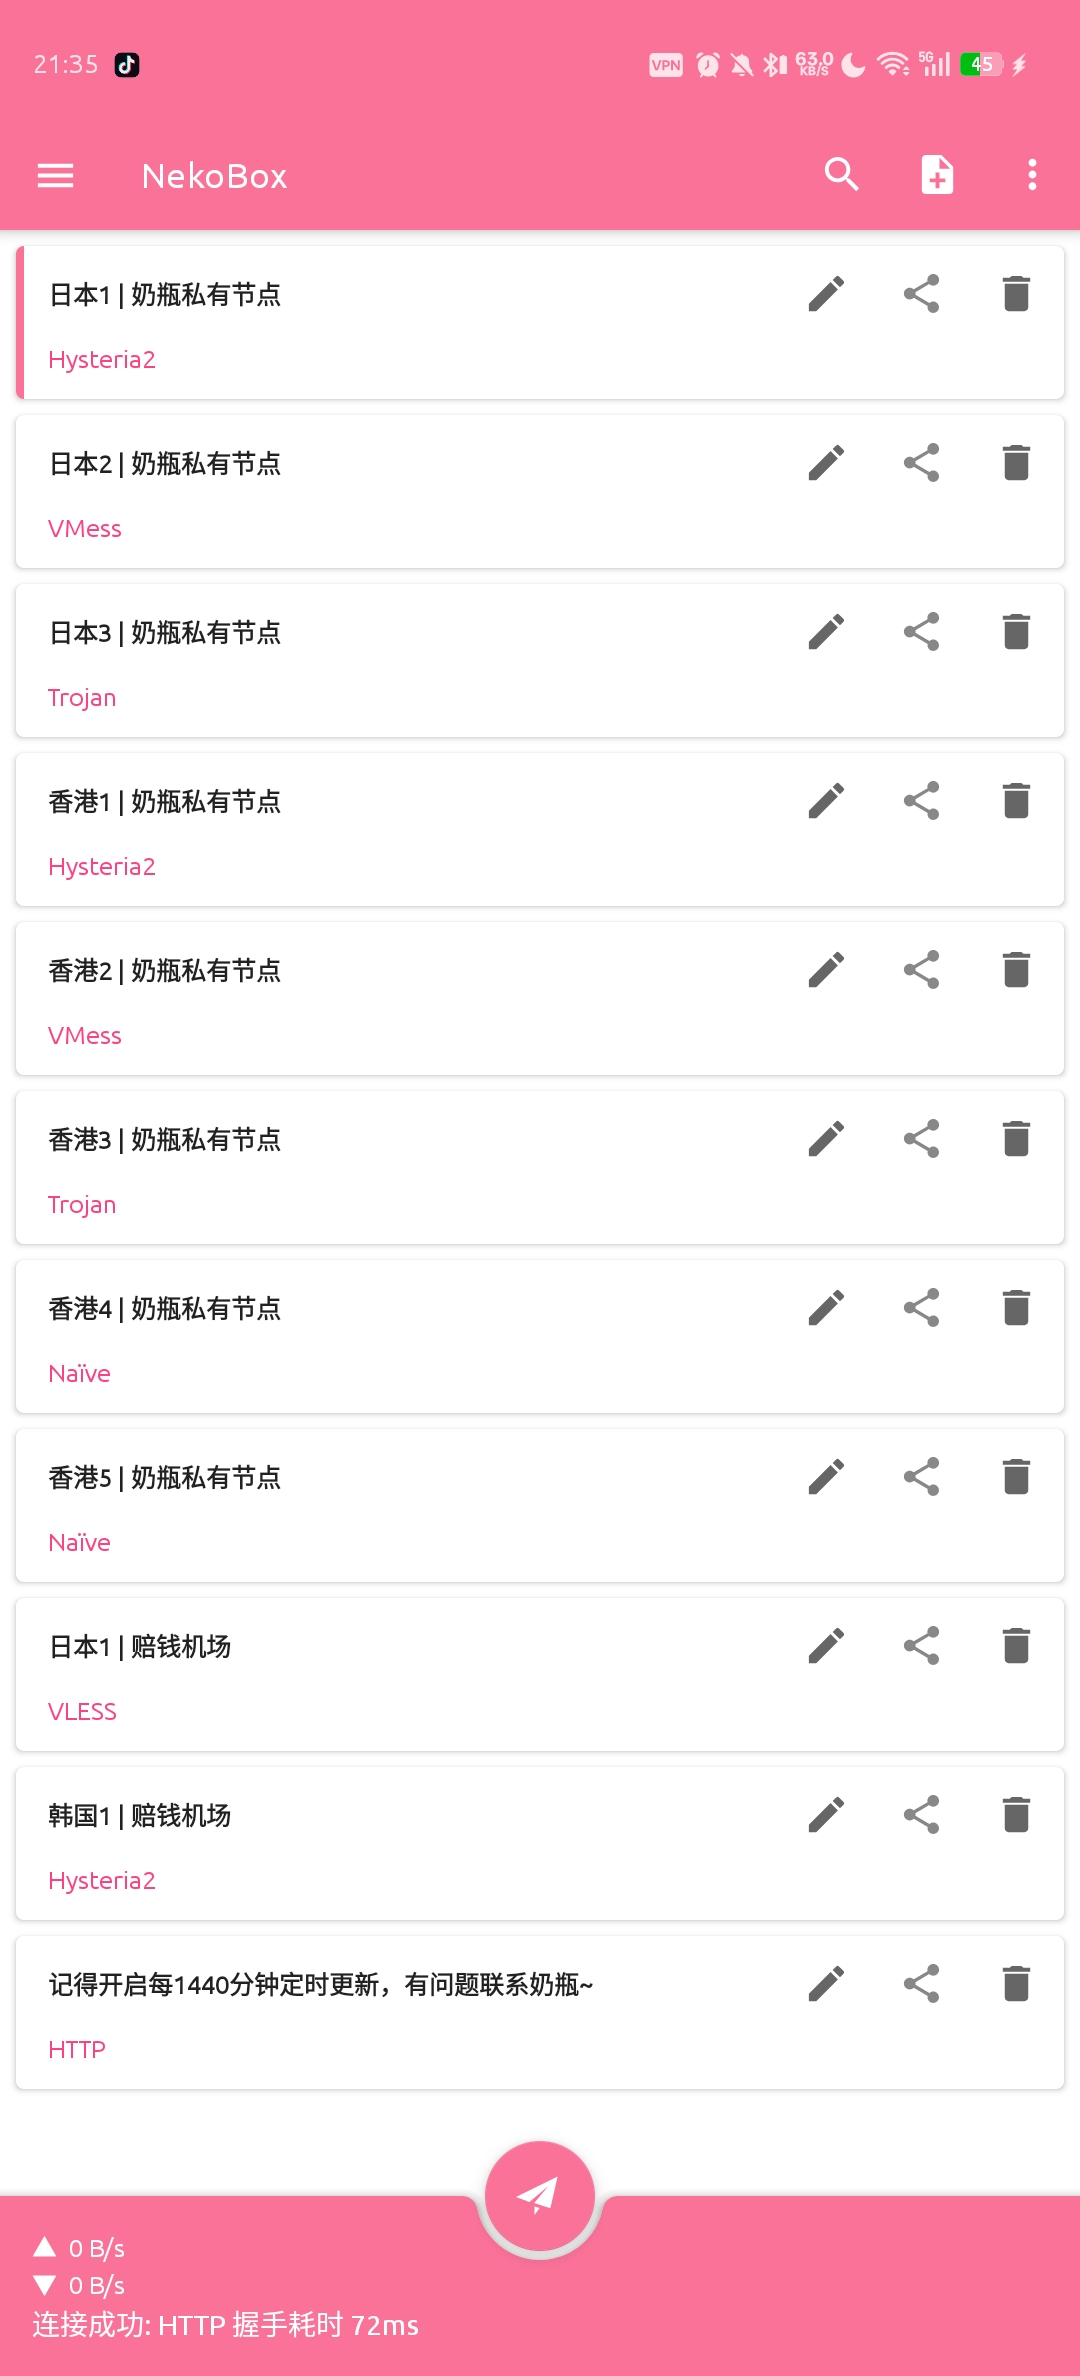
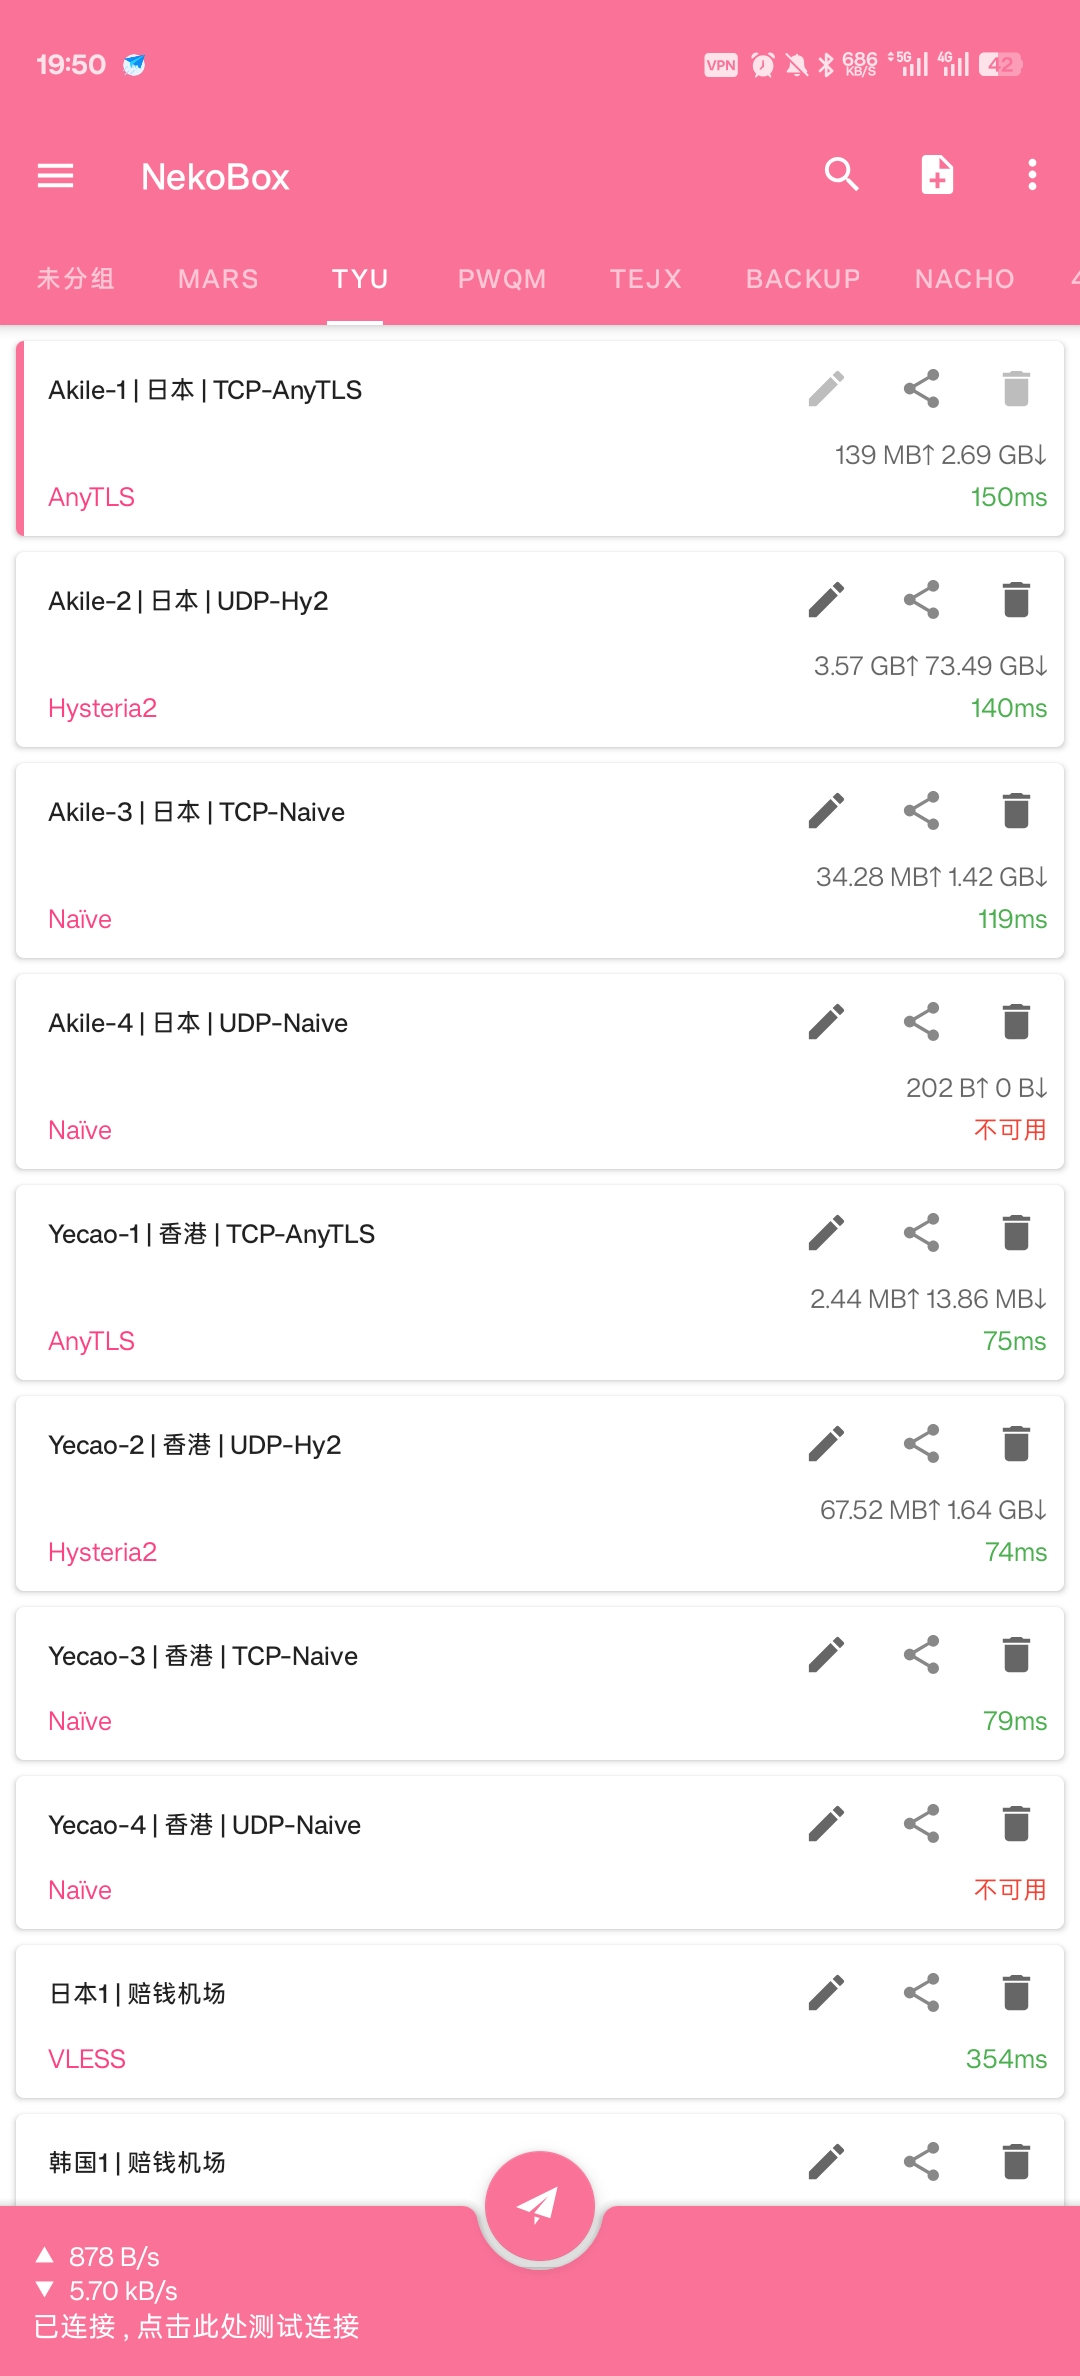
update

diff --git a/docs/nekobox/introduction.md b/docs/nekobox/introduction.md
@@ -6,7 +6,7 @@
 
 挺好用的，IIJ线路，就是偶尔会掉线（差不多一年10次吧，一次持续两三天）
 
-::: details mtr
+::: details mtr 南京工业大学电信出口
 ```plain{12-14}
 HOST: telecom-server       Loss%   Snt   Last   Avg  Best  Wrst StDev
   1.|-- ???                100.0    10    0.0   0.0   0.0   0.0   0.0
@@ -27,38 +27,41 @@ HOST: telecom-server       Loss%   Snt   Last   Avg  Best  Wrst StDev
 ```
 :::
 
-- Ali 日本东京
-
-别用，延迟高而且还不稳定
-
-::: details mtr
+::: details ippure
 ```plain
-HOST: telecom-server                   Loss%   Snt   Last   Avg  Best  Wrst StDev
-  1.|-- ???                            100.0    10    0.0   0.0   0.0   0.0   0.0
-  2.|-- 58.213.118.129                  0.0%    10    0.9   1.0   0.9   1.3   0.1
-  3.|-- ???                            100.0    10    0.0   0.0   0.0   0.0   0.0
-  4.|-- ???                            100.0    10    0.0   0.0   0.0   0.0   0.0
-  5.|-- 218.2.126.49                   60.0%    10    2.0   1.8   1.7   2.0   0.2
-  6.|-- 202.97.52.53                   50.0%    10    6.8   6.8   6.7   6.9   0.1
-  7.|-- ???                            100.0    10    0.0   0.0   0.0   0.0   0.0
-  8.|-- ???                            100.0    10    0.0   0.0   0.0   0.0   0.0
-  9.|-- softbank221111179213.bbtec.net  0.0%    10   72.2  71.5  70.9  73.1   0.7
- 10.|-- ???                            100.0    10    0.0   0.0   0.0   0.0   0.0
- 11.|-- ???                            100.0    10    0.0   0.0   0.0   0.0   0.0
- 12.|-- ???                            100.0    10    0.0   0.0   0.0   0.0   0.0
- 13.|-- ???                            100.0    10    0.0   0.0   0.0   0.0   0.0
- 14.|-- ???                            100.0    10    0.0   0.0   0.0   0.0   0.0
- 15.|-- 8.216.16.170                   30.0%    10   54.5  54.3  54.0  54.6   0.2
+IP
+  156.231.117.*
+ASN
+  AS61112 - AkileCloud Network
+AS域名
+  akilecloud.com
+IP范围
+  156.231.116.0 - 156.231.117.255
+人机流量比
+  human 51.80% bot 48.20%
+位置
+  Cloudflare 🇯🇵 Japan, Tokyo, Tokyo
+  IP2Location 🇯🇵 Japan, Tokyo, Tokyo
+  DB-IP 🇯🇵 Japan, Tokyo, Shibuya City
+  MaxMind 🇯🇵 Japan, Tokyo, Tokyo
+  IPInfo.io 🇯🇵 Japan, Tokyo, Tokyo
+  Bilibili 🇯🇵 日本, 东京都, 东京
+IP来源
+  广播IP
+IP属性
+  机房IP
+IPPure系数
+  42% 轻度风险
+Cloudflare系数
+  1% 极度纯净
 ```
 :::
 
 - Yecao 香港/美国洛杉矶
 
-NTT线路，大带宽但是晚高峰时间段很卡
+NTT线路，大带宽但是晚高峰时间段很卡，似乎也是AS9929
 
-似乎也是AS9929吗
-
-::: details mtr
+::: details mtr 南京工业大学电信出口
 ```plain{8-9,11,14}
 HOST: telecom-server                         Loss%   Snt   Last   Avg  Best  Wrst StDev
   1.|-- ???                                  100.0    10    0.0   0.0   0.0   0.0   0.0
@@ -81,11 +84,41 @@ HOST: telecom-server                         Loss%   Snt   Last   Avg  Best  Wrs
 ```
 :::
 
+::: details ippure
+```plain
+IP
+  38.55.193.*
+ASN
+  AS139659 - LUCIDACLOUD LIMITED
+AS域名
+  yecaoyun.com
+IP范围
+  38.55.192.0 - 38.55.195.255
+人机流量比
+  human 15.19% bot 84.81%
+位置
+  Cloudflare 🇭🇰 Hong Kong, Tung Chung
+  IP2Location 🇺🇸 United States, California, Los Angeles
+  DB-IP 🇭🇰 Hong Kong, Kowloon, Hong Kong
+  MaxMind 🇺🇸 United States
+  IPInfo.io 🇭🇰 Hong Kong, Islands, Tung Chung
+  Bilibili 🇨🇳 中国, 香港
+IP来源
+  原生IP
+IP属性
+  机房IP
+IPPure系数
+  28% 中性
+Cloudflare系数
+  2% 极度纯净
+```
+:::
+
 - Hbyzn 香港
 
 AS9929的线路，只有20Mbps，带宽不大但是稳定，晚高峰也不卡
 
-::: details mtr
+::: details mtr 南京工业大学电信出口
 ```plain{8-15}
 HOST: telecom-server                              Loss%   Snt   Last   Avg  Best  Wrst StDev
   1.|-- ???                                       100.0    10    0.0   0.0   0.0   0.0   0.0
@@ -103,6 +136,42 @@ HOST: telecom-server                              Loss%   Snt   Last   Avg  Best
  13.|-- ae-20.a01.newthk04.hk.bb.gin.ntt.net      10.0%    10  135.6 141.4 133.6 155.6   7.6
  14.|-- xe-2-5-1-1.a01.newthk04.hk.ce.gin.ntt.net  0.0%    10   31.5  31.6  31.5  32.2   0.2
  15.|-- ???                                       100.0    10    0.0   0.0   0.0   0.0   0.0
- 16.|-- 156.239.235.27                             0.0%    10   32.4  32.6  32.3  34.3   0.6
+ 16.|-- 156.239.235.*                             0.0%    10   32.4  32.6  32.3  34.3   0.6
 ```
+:::
+
+::: details ippure
+```plain
+IP
+  156.239.235.*
+ASN
+  AS154321 - CORENET CLOUD SDN. BHD.
+AS域名
+  corenetcloud.com
+IP范围
+  156.239.224.0 - 156.239.239.255
+人机流量比
+  human 39.07% bot 60.93%
+位置
+  Cloudflare 🇭🇰 Hong Kong, Tung Chung
+  IP2Location 🇭🇰 Hong Kong, Hong Kong, Hong Kong
+  DB-IP 🇭🇰 Hong Kong, Kowloon, Hong Kong
+  MaxMind 🇸🇨 Seychelles
+  IPInfo.io 🇭🇰 Hong Kong, Islands, Tung Chung
+  Bilibili 🇺🇸 美国, 加利福尼亚州, 洛杉矶
+IP来源
+  原生IP
+IP属性
+  机房IP
+IPPure系数
+  63% 中度风险
+Cloudflare系数
+  2% 极度纯净
+```
+:::
+
+---
+
+::: warning
+如果你想挂梯子连接X，请使用同一个节点。可以偶尔换ip，但是不能经常换。
 :::

diff --git a/docs/nekobox/import-sub.md b/docs/nekobox/import-sub.md
@@ -2,9 +2,21 @@
 
 ## 下载安装 NekoBoxForAndroid
 
-[国外下载地址(Github)](https://nekobox.tyu.im)
+[国外下载地址](https://nekobox.tyu.im)
 
-[国内下载地址(Proxy4Github)](https://p.tyu.im/https://nekobox.tyu.im)
+[国内下载地址](https://p.tyu.im/https://nekobox.tyu.im)
+
+## 下载安装 Naive 插件
+
+[国外下载地址](https://nekobox.tyu.im/plugin/naive)
+
+[国内下载地址](https://p.tyu.im/https://nekobox.tyu.im/plugin/naive)
+
+## 下载安装 Mieru 插件
+
+[国外下载地址](https://nekobox.tyu.im/plugin/mieru)
+
+[国内下载地址](https://p.tyu.im/https://nekobox.tyu.im/plugin/mieru)
 
 ## 打开 NekoBox
 

diff --git a/docs/nekobox/update-sub.md b/docs/nekobox/update-sub.md
@@ -1,14 +1,10 @@
 # 订阅链接更新
 
-## 点击左上角
+## 点击右上角三个点
 
 ![image](./update-sub/01.jpg)
 
-## 选择分组
+## 点击 **更新当前组订阅**
 
 ![image](./update-sub/02.jpg)
-
-## 点击更新
-
-![image](./update-sub/03.jpg)
 

diff --git a/docs/remote-display/rdp.md b/docs/remote-display/rdp.md
@@ -1,0 +1,4 @@
+# 远程 RDP 屏幕
+
+## 下载客户端
+
